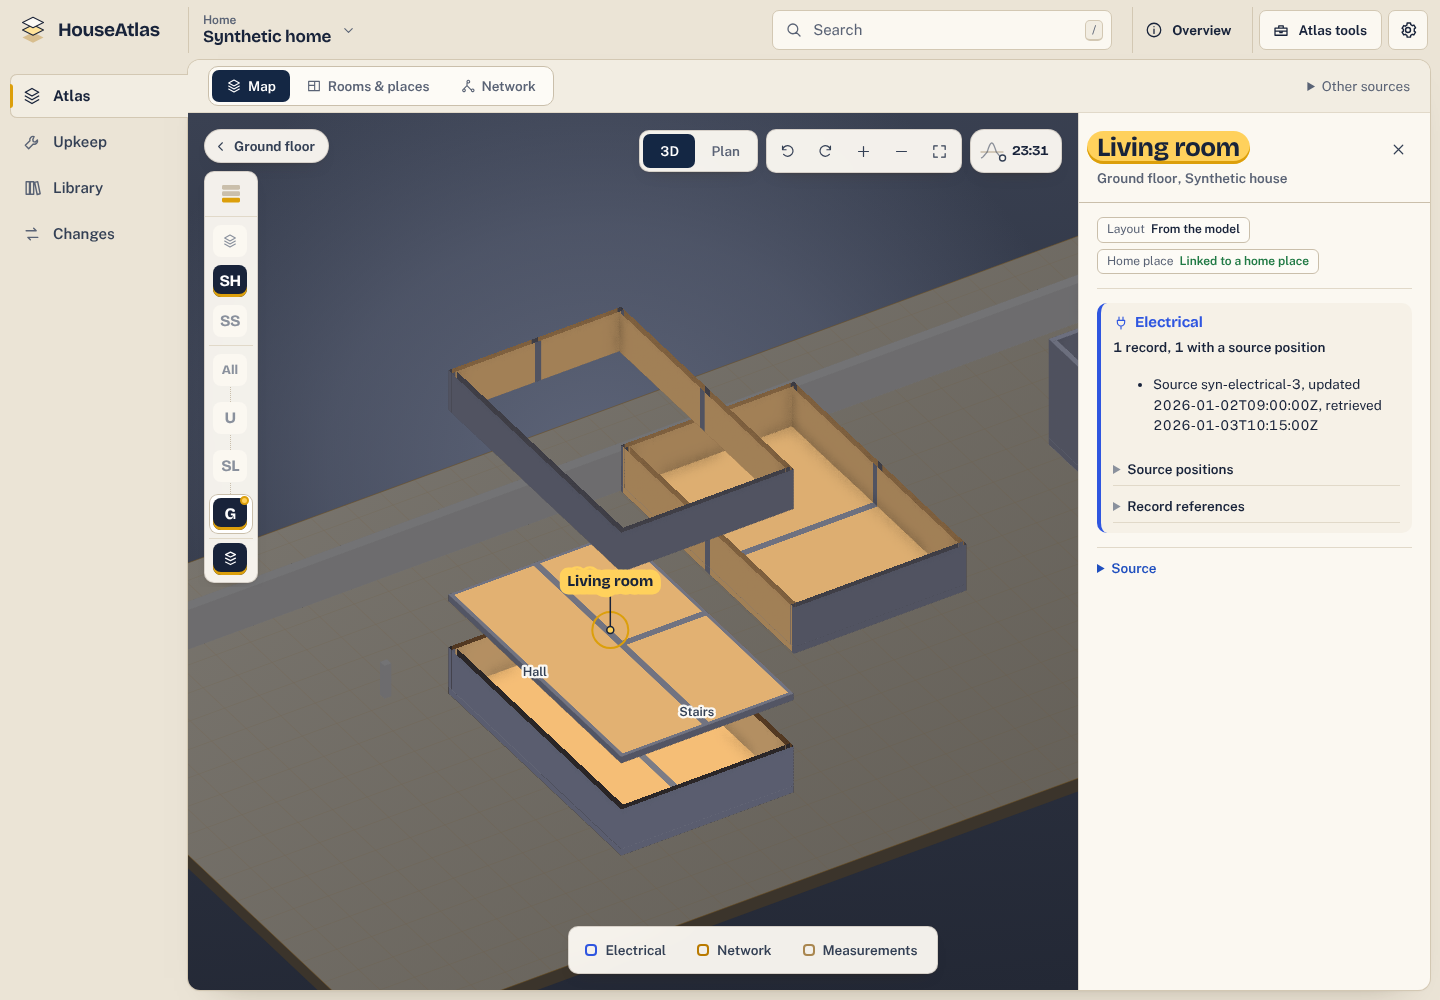
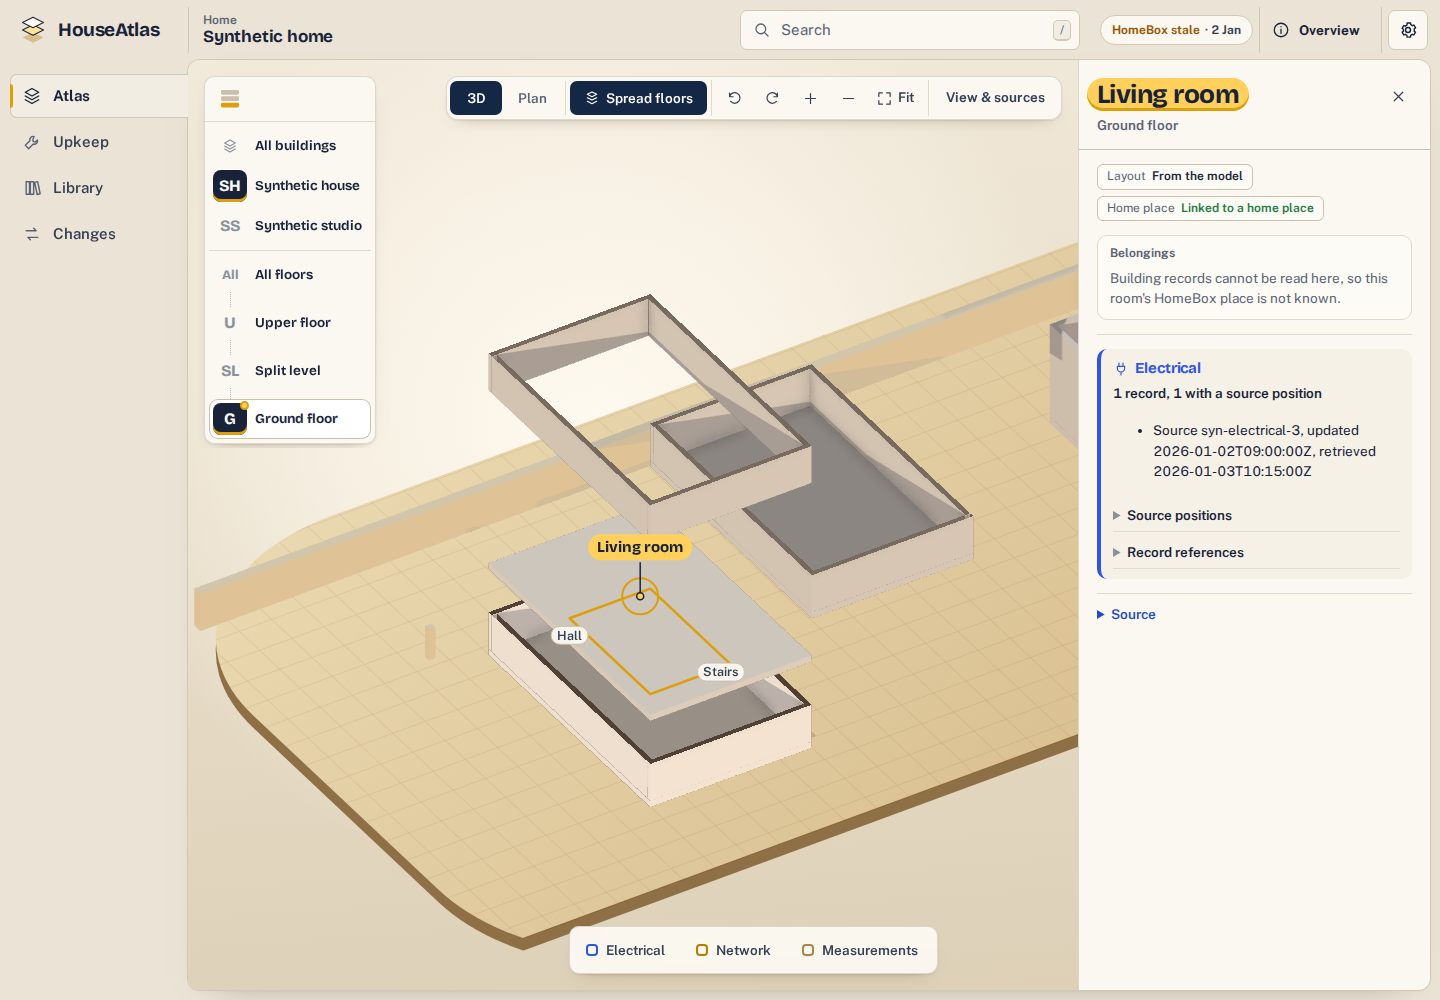
Refresh README demo media from main's synthetic capture and drop the removed Network view shot

diff --git a/docs/demo/README.md b/docs/demo/README.md
@@ -1,8 +1,8 @@
 # Synthetic interface demo
 
-The building, room and Network images show the actual Lantern React UI and
+The building and room images show the actual Lantern React UI and
 existing checked-in `frontend/lantern-tests/core-read-visual` fixture.
-All records, scope IDs and session metadata are synthetic. Topology and Network clients consume fake
+All records, scope IDs and session metadata are synthetic. The topology client consumes fake
 Responses; other application reads return unavailable. Only frontend assets
 are loaded from the owned numeric-loopback Vite server. No native server,
 provider, household file, account, credential or upstream write is involved.
@@ -11,8 +11,7 @@ provider, household file, account, credential or upstream write is involved.
 | --- | --- |
 | [Building](synthetic-building.png) | Alpha's reviewed membership, recorded level ordering, distinct elevation datums and explicit unknowns. |
 | [Room](synthetic-room.png) | Lower room selection with source facts and unavailable shape/document information. |
-| [Network](synthetic-network.png) | One explicitly loaded saved relation with original dates and exact revision token. |
-| [Collage](synthetic-collage.png) | The three unmodified screen captures, labeled SYNTHETIC. |
+| [Collage](synthetic-collage.png) | The two unmodified screen captures, labeled SYNTHETIC. |
 
 The capture also produces seven unified Atlas review images. The README shows
 `synthetic-unified-3d.png`; the others are workflow artifacts only:
@@ -25,7 +24,7 @@ The capture also produces seven unified Atlas review images. The README shows
 | `synthetic-unified-phone.png` | Living room in 3D at 390 × 844, fitted with both Hall and Living electrical counts clear. |
 | `synthetic-unified-phone-crowded.png` | Normal modified-wheel zoom creates a count-target collision. Selected Living wins while the layer retains four records. |
 | `synthetic-unified-phone-hall.png` | Hall selected through the room list at the same phone width, retaining its three records and original references. |
-| `synthetic-unified-stacked.png` | Stacked whole-building Network view, tilted and zoomed out through normal keyboard controls. One Stairs count survives without duplicating its source record. |
+| `synthetic-unified-stacked.png` | Stacked whole-building view with the Network layer, tilted and zoomed out through normal keyboard controls. One Stairs count survives without duplicating its source record. |
 
 They mount the actual `UnifiedAtlas` through `LanternHost` at
 `/lantern-tests/source-host-visual/?atlas=generated`. The production scene
@@ -80,7 +79,7 @@ label in their heading (`ExampleLabelContext`, provided only by the example).
 | Room belongings | **Atlas**, select *Living room*: **Belongings** lists the reading lamp from its reviewed HomeBox place link; *Hall* has a link and none listed; *Bathroom* has no reviewed link. Selecting the first such room reads the in-page building records once. |
 | Documents | **Library** › **Source documents** and **Electrical drawings**; the lamp manual from **Library** › **File details** (below). |
 | Electrical groups | Hall link below, **Electrical** layer, open *Fictional symbol 1* › **Show drawing group**: the historic group and its fictional circuits A1 and A2 (below). |
-| Network trace | **Atlas** › **Network**; select the access point, switch or streaming box (below). |
+| Network | **Atlas**, **Network** layer: device glyphs and links on the map; tap one for its card. **Graph** in the layer key traces the access point, switch or streaming box (below). |
 | Offline | Load `/example/` or `/example/index.html` once online; both then open with the network off (below). |
 
 No belonging has a reviewed room placement: the HomeBox projection always

diff --git a/README.md b/README.md
@@ -6,7 +6,7 @@ HomeBox owns inventory, attachments and maintenance; HouseAtlas owns physical id
 
 ![Synthetic HouseAtlas Atlas: a generated two-building house model in 3D with its floors spread and the living room selected](docs/demo/synthetic-unified-3d.png)
 
-![Synthetic HouseAtlas demo: reviewed building levels, room details and saved Network relations](docs/demo/synthetic-collage.png)
+![Synthetic HouseAtlas demo: reviewed building levels and room details](docs/demo/synthetic-collage.png)
 
 **SYNTHETIC demo.** The Atlas shows a generated fictional house model through the application's actual reader and renderer. Its buildings, rooms and records are invented. The browsing fixture has no house model. No household files, real accounts or live providers are used. [Full screenshots and reproduction](docs/demo/README.md).
 
@@ -19,7 +19,7 @@ npm ci --prefix frontend --ignore-scripts --no-audit --no-fund
 (cd frontend && node node_modules/vite/bin/vite.js --host 127.0.0.1 --port 4179 --strictPort)
 ```
 
-Open <http://127.0.0.1:4179/lantern-tests/source-host-visual/?atlas=generated> for the generated fictional house model. Select a room or switch between **3D** and **Plan**. Open <http://127.0.0.1:4179/lantern-tests/core-read-visual/> and select **Alpha** for building membership and source facts; in **Network**, choose **Load Network relations** for the fixture's saved relation. Stop the server with Ctrl-C.
+Open <http://127.0.0.1:4179/lantern-tests/source-host-visual/?atlas=generated> for the generated fictional house model. Select a room or switch between **3D** and **Plan**. Open <http://127.0.0.1:4179/lantern-tests/core-read-visual/> and select **Alpha** for building membership and source facts. Stop the server with Ctrl-C.
 
 The Atlas demo uses the production scene reader against an in-page fake transport serving a generated publication. The browsing demo uses read clients with synthetic Responses. They supply no authentication, native server, evidence upload or provider integration. Keep it on loopback; do not use it as a deployment.
 
